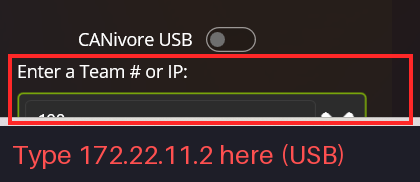
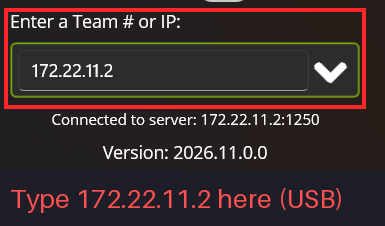
First motor: connected checkpoint screenshot, real IP box crop; FAQ for missing Kraken

Changed region(s): [[0.0, 0.0, 1.0, 0.7143], [0.0312, 0.7967, 0.9039, 0.9615]]

diff --git a/docs/reference/TROUBLESHOOTING.md b/docs/reference/TROUBLESHOOTING.md
@@ -68,6 +68,23 @@
   password) works from PowerShell. See
   [Your first motor](../part1/05_FIRST_MOTOR.md#find-the-can-id).
 
+**Tuner X: the PDP shows up, but not the Kraken**
+: The RoboRIO and the CAN bus work, so look at the Kraken. Check its
+  status light:
+  * **Off:** no power. Check its red/black wires at the PDP, and that
+    its PDP slot has a **breaker** in it.
+  * **Blinking red:** power is fine, but no CAN. CAN is a **chain**, not
+    a hub: the yellow/green wires must run RoboRIO → Kraken → PDP (or
+    RoboRIO → PDP → Kraken), with every joint in line, yellow to yellow
+    and green to green. Tug each wire gently to check it's held.
+  * **Orange or green:** it's on the bus. Click Tuner X's refresh button.
+
+  Have another CTRE motor (like a Falcon)? Swap it in. If it shows up,
+  the problem is the Kraken or its own wires; if not, it's the CAN chain.
+  > **TODO:** check these status light colors against the
+  > [Talon FX status light guide](https://v6.docs.ctr-electronics.com/en/stable/docs/hardware-reference/talonfx/index.html),
+  > and add what fixed it for us.
+
 **Driver Station says "Emergency Stopped" and won't enable**
 : The robot is **e-stopped** (emergency stopped). Unlike a normal
   disable, it stays stopped until the robot code restarts. Either:

diff --git a/docs/part1/05_FIRST_MOTOR.md b/docs/part1/05_FIRST_MOTOR.md
@@ -151,10 +151,20 @@ here's the quick version.
 
    ![Tuner X: Failed to connect to diagnostics, with the RUN TEMPORARY DIAGNOSTICS button](../img/tunerx_no_diagnostics.png)
 
-   > 📷 **TODO screenshot:** retake this once it's connected to
-   > `172.22.11.2` (this one shows `10.1.0.2`).
+   > (This picture shows `10.1.0.2`; yours should say `172.22.11.2`.)
 
-1. Your Kraken should now be in the **Devices** list.
+1. **You're doing well if** the bottom left says **"Connected to
+   server: 172.22.11.2:1250"** and **Devices** lists something. The
+   **PDP** (power distribution panel, ID 0) is on the CAN bus too, so
+   you'll see it. Your **Kraken** should be in the list next to it.
+
+   ![Tuner X connected over USB, showing the PDP on CAN bus rio](../img/tunerx_connected_pdp.png)
+
+   > 📷 **TODO screenshot:** retake this with the Kraken in the list too.
+
+   Only the PDP, no Kraken? See
+   "the PDP shows up, but not the Kraken" in
+   [Troubleshooting](../reference/TROUBLESHOOTING.md).
 
    **Got "Error retrieving SSH target platform" instead?** Tuner X logs
    into the RoboRIO with SSH to start the temporary server, and that
